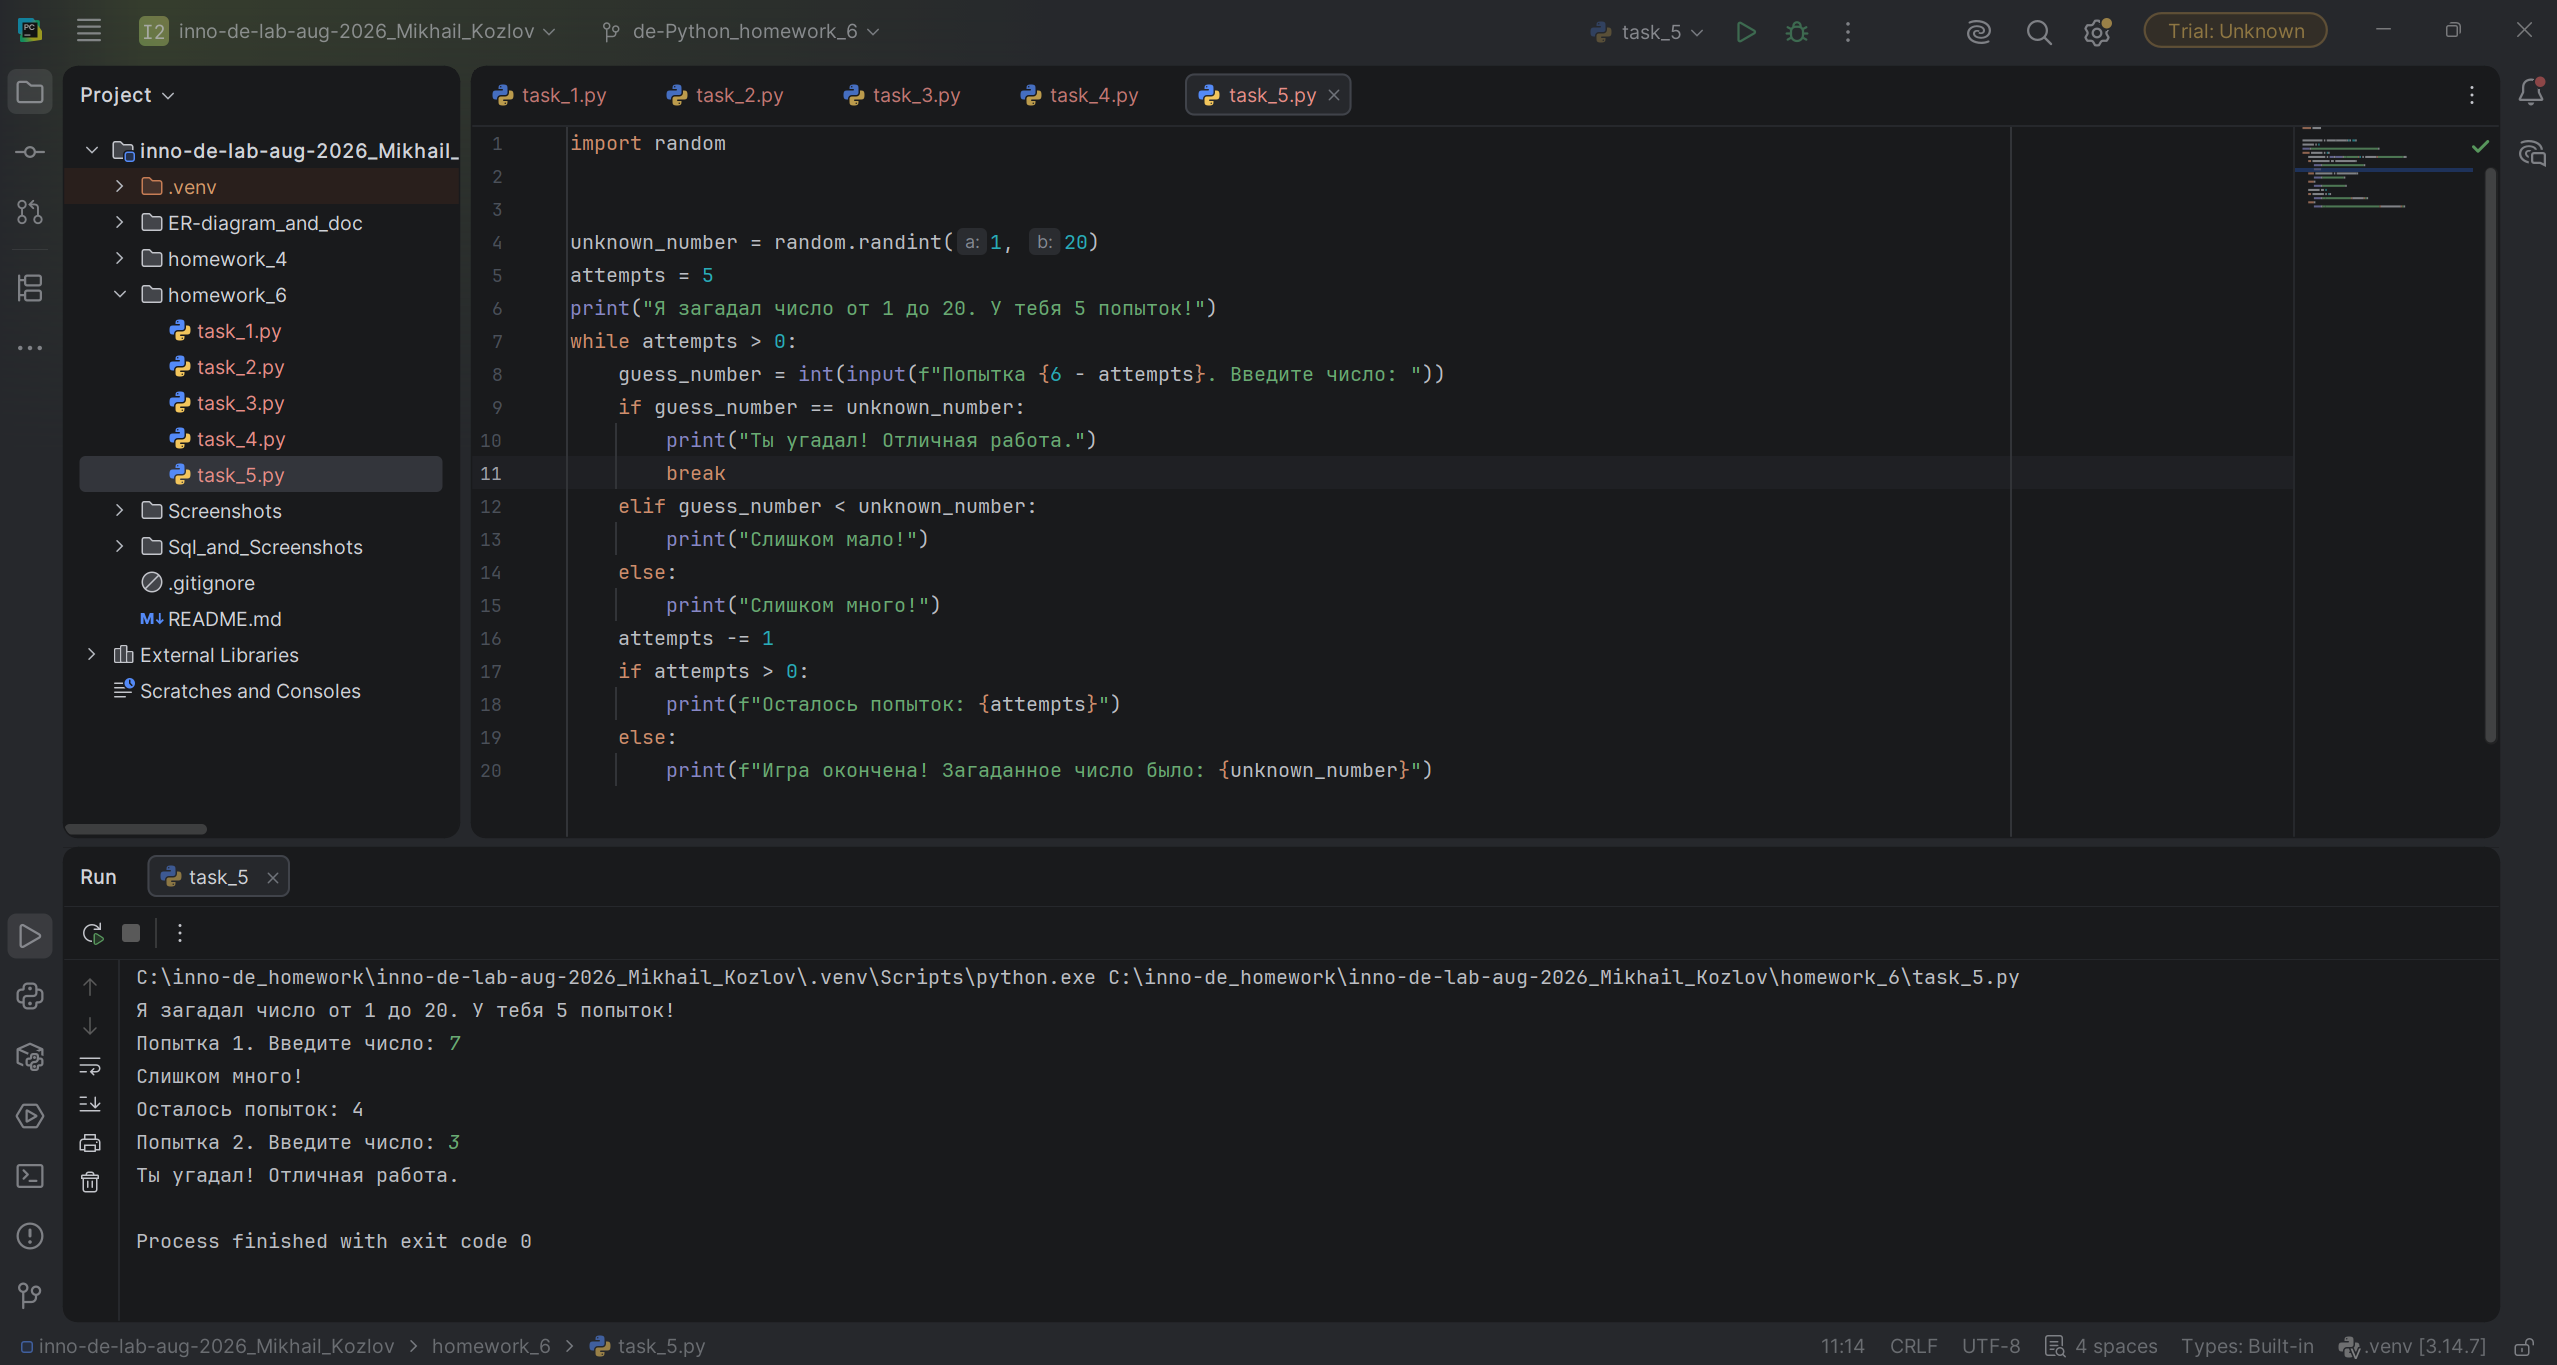
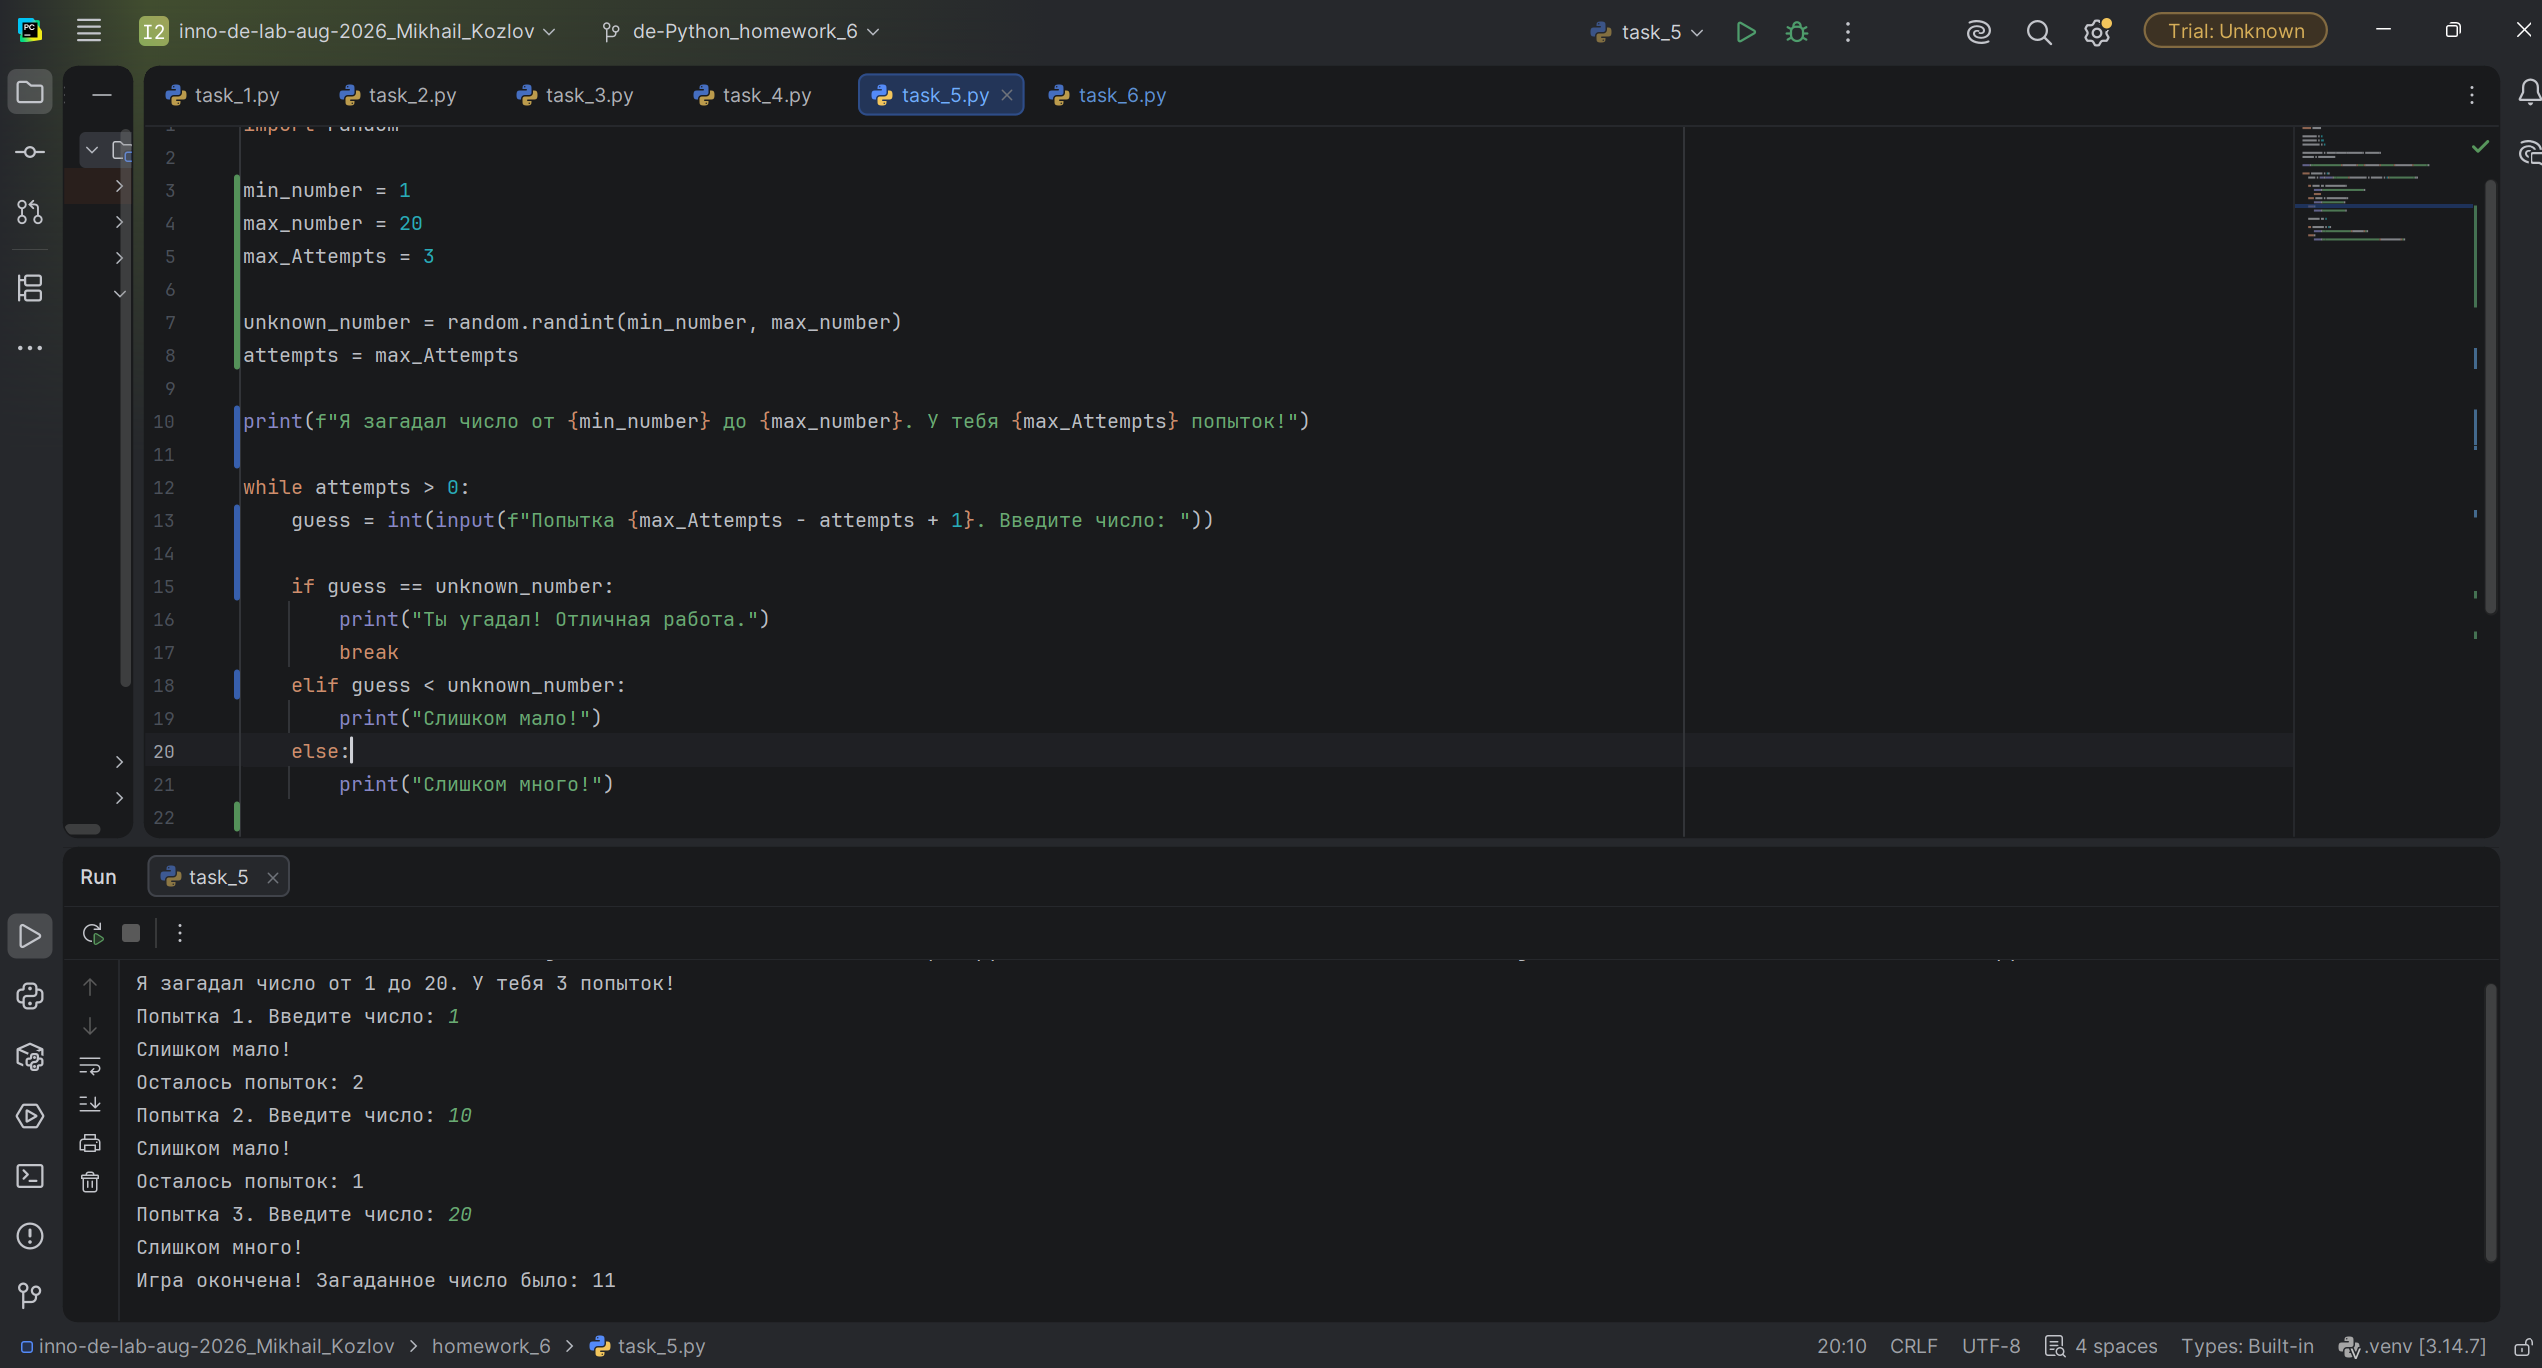
fix task_5 and task_6)

diff --git a/homework_6/task_6.py b/homework_6/task_6.py
@@ -2,24 +2,23 @@ number_1 = float(input("Введите первое число: "))
 number_2 = float(input("Введите второе число: "))
 math_operator = input("Выберите оператор (+, -, *, /): ")
 
+is_valid = True
+
 if math_operator == "+":
     result = number_1 + number_2
-    print(f"Результат: {number_1} + {number_2} = {result}")
-
 elif math_operator == "-":
     result = number_1 - number_2
-    print(f"Результат: {number_1} - {number_2} = {result}")
-
 elif math_operator == "*":
     result = number_1 * number_2
-    print(f"Результат: {number_1} * {number_2} = {result}")
-
 elif math_operator == "/":
     if number_2 == 0:
-        print("Ошибка, делить на ноль нельзя!")
+        print("Ошибка: деление на ноль невозможно!")
+        is_valid = False
     else:
         result = number_1 / number_2
-        print(f"Результат: {number_1} / {number_2} = {result}")
-
 else:
-    print("Ошибка, неизвестный оператор! Используйте +, -, *, /")
+    print("Ошибка: неизвестный оператор! Используйте +, -, *, /")
+    is_valid = False
+
+if is_valid:
+    print(f"Результат: {number_1} {math_operator} {number_2} = {result}")

diff --git a/homework_6/task_5.py b/homework_6/task_5.py
@@ -1,19 +1,27 @@
 import random
 
+min_number = 1
+max_number = 20
+max_Attempts = 3
 
-unknown_number = random.randint(1, 20)
-attempts = 5
-print("Я загадал число от 1 до 20. У тебя 5 попыток!")
+unknown_number = random.randint(min_number, max_number)
+attempts = max_Attempts
+
+print(f"Я загадал число от {min_number} до {max_number}. У тебя {max_Attempts} попыток!")
+
 while attempts > 0:
-    guess_number = int(input(f"Попытка {6 - attempts}. Введите число: "))
-    if guess_number == unknown_number:
+    guess = int(input(f"Попытка {max_Attempts - attempts + 1}. Введите число: "))
+
+    if guess == unknown_number:
         print("Ты угадал! Отличная работа.")
         break
-    elif guess_number < unknown_number:
+    elif guess < unknown_number:
         print("Слишком мало!")
     else:
         print("Слишком много!")
+
     attempts -= 1
+
     if attempts > 0:
         print(f"Осталось попыток: {attempts}")
     else:
